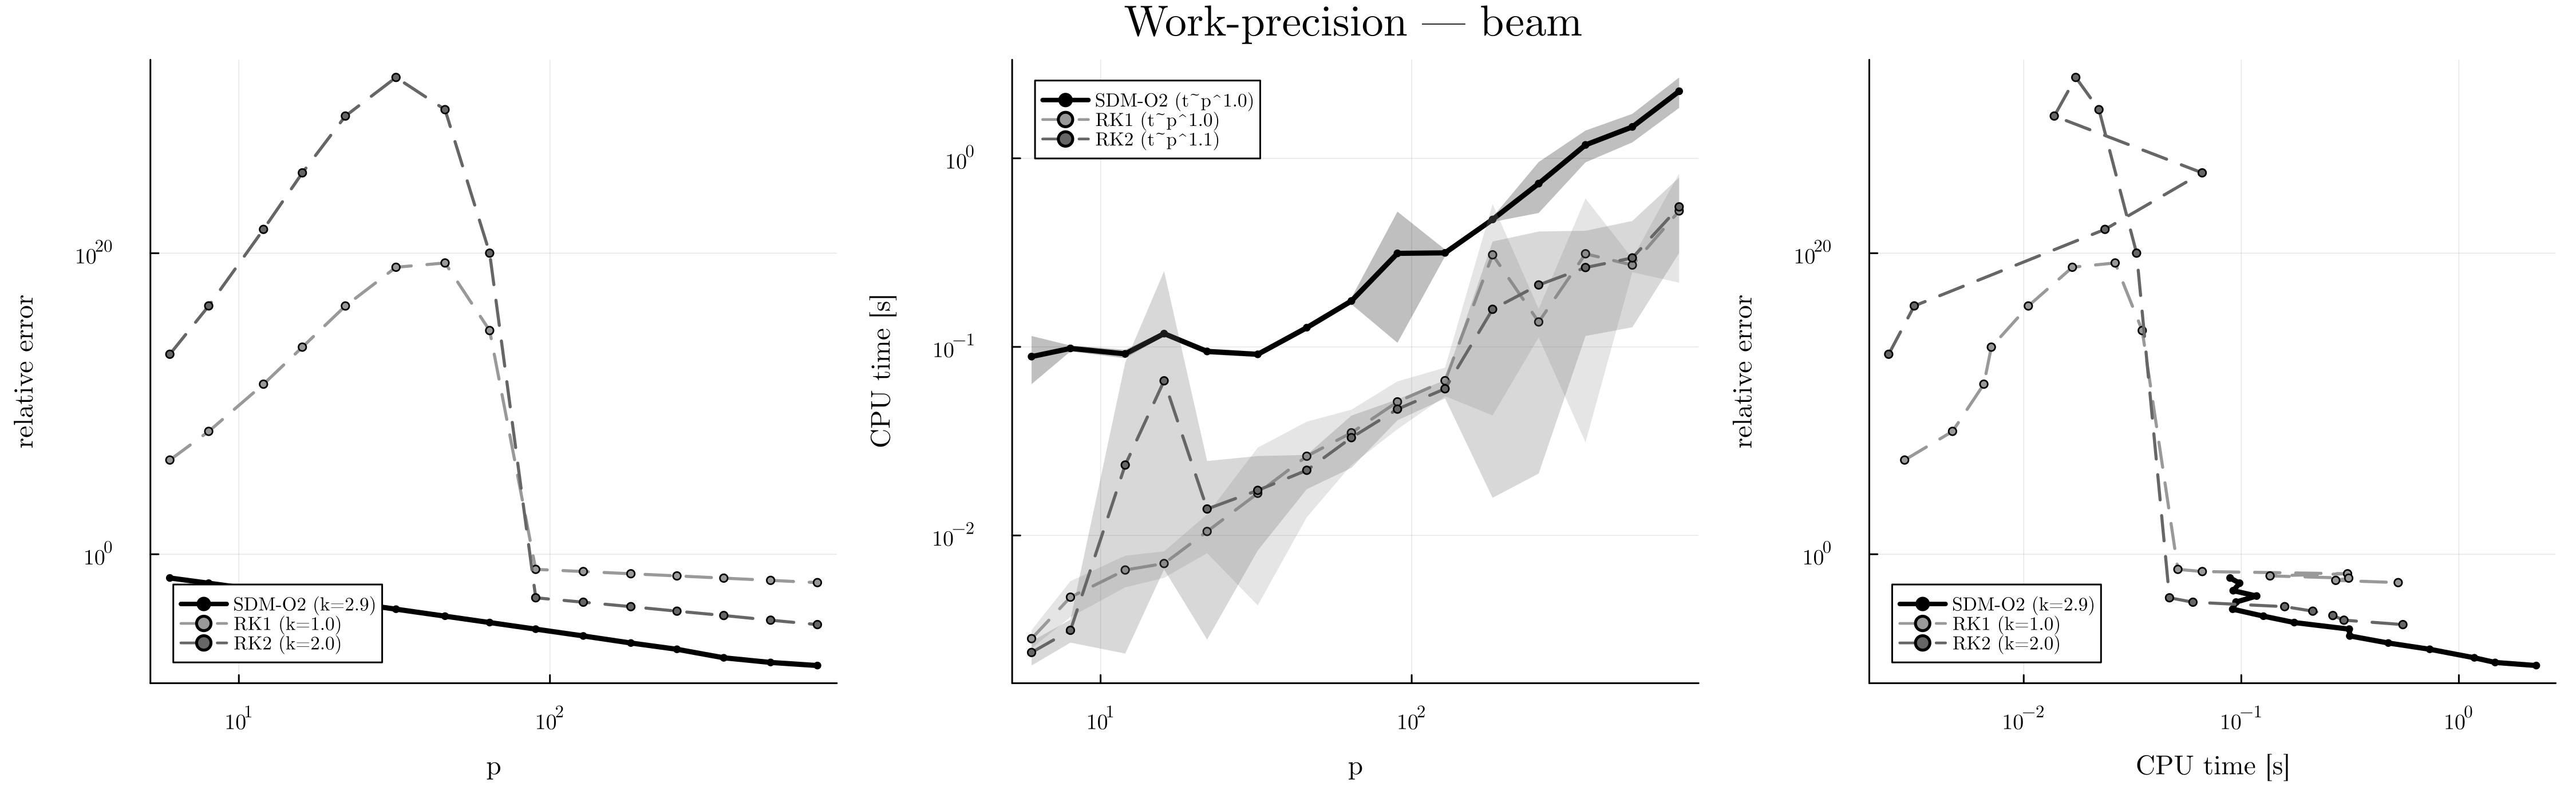
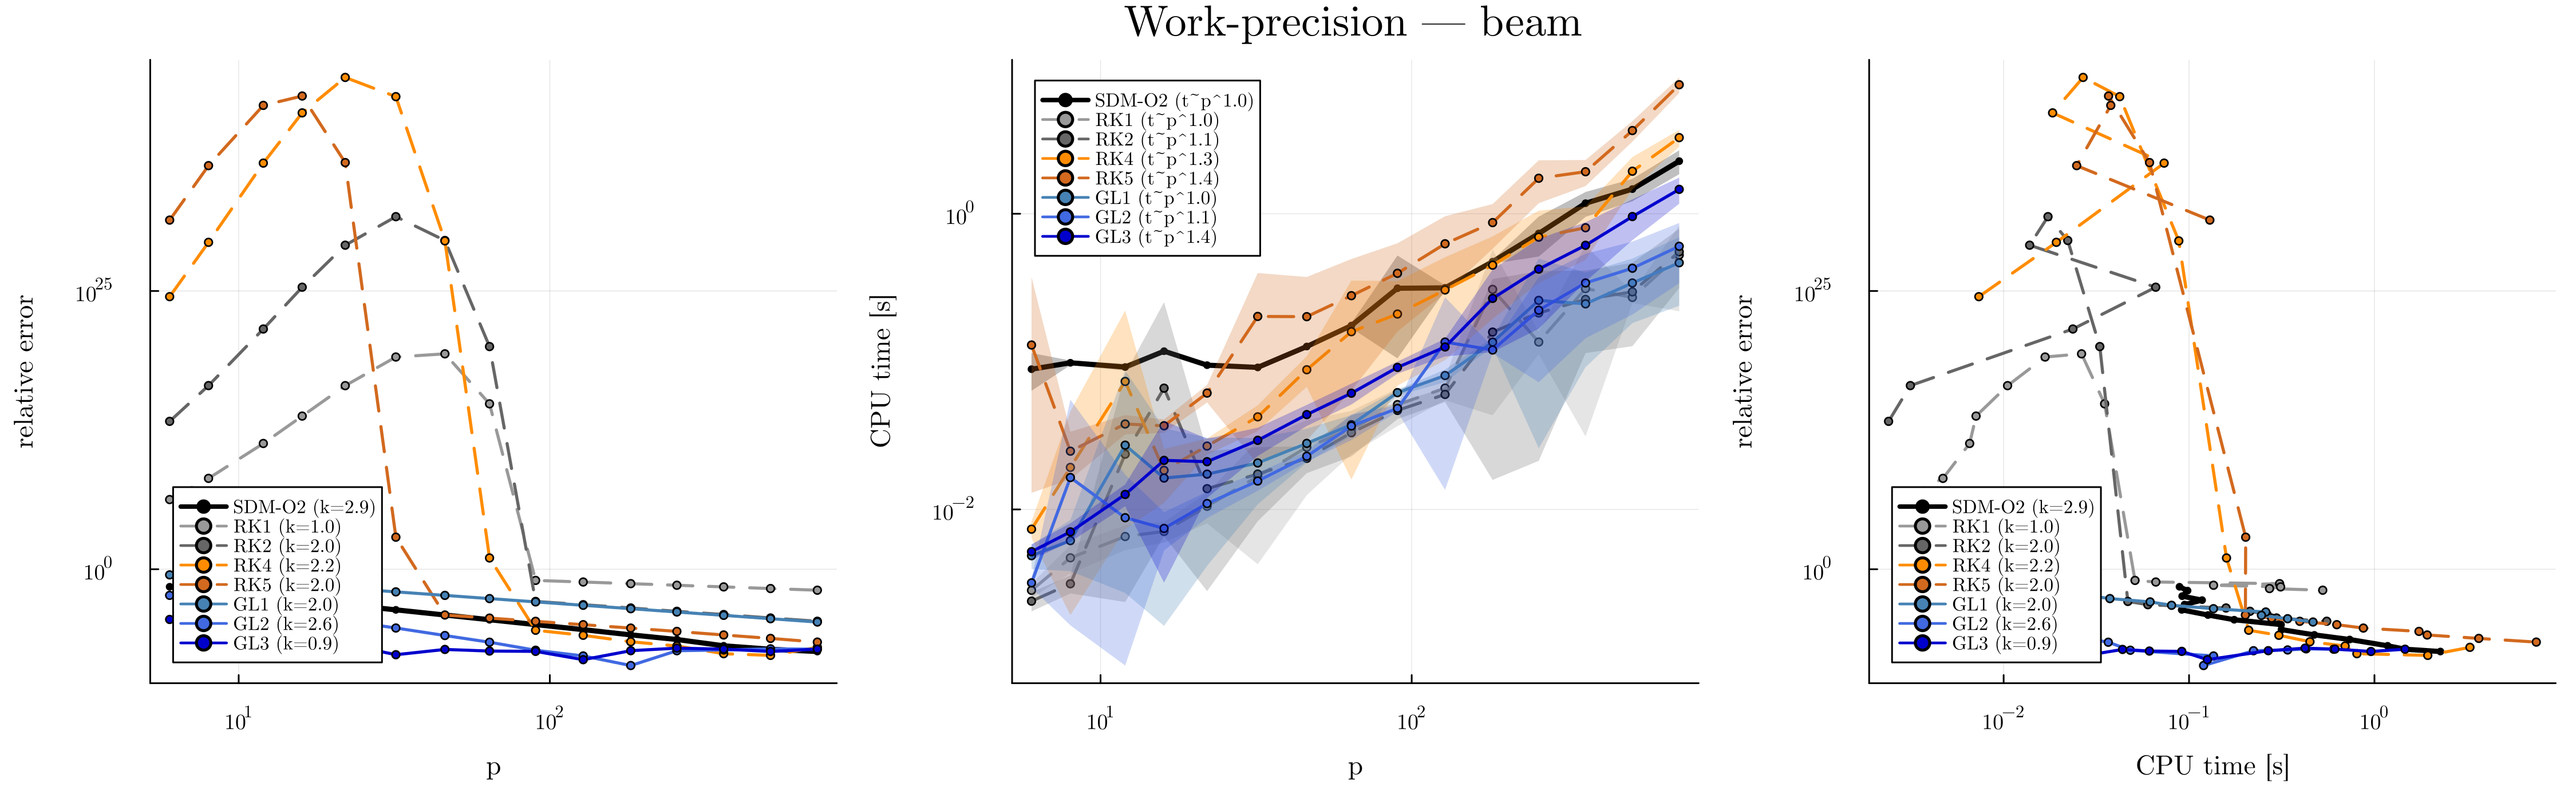
Paper: p-h map figure + both complexity laws + Nyquist resolution bound
Measured p-refinement exponents (s^1.3 Mathieu, s^1.6 beam for rank-one
delay coupling; cubic = dense limit) replace the a-priori cubic claim.
Sweet-spot optimum s* = ln(1/eps)/(2k). Shannon-type bound N = p(s+1) >~
c omega_max T/2pi with pinned-N cost N s^(k-1) => smallest viable order
wins for hard systems; ph_map figures render the whole (s,p) surface.

diff --git a/paper/main.tex b/paper/main.tex
@@ -50,9 +50,11 @@ for $s$-stage Gauss quadrature points --- provided the delayed terms are
 interpolated by the continuous extension of the same scheme. In the limit of
 a single ultra-high-order step, the framework degenerates to the known global
 spectral method; between the two extremes lies a continuum in which per-step
-order is traded against matrix sparsity. Because the number of nonzeros grows
-cubically with the stage number while the error decreases only exponentially,
-the CPU-time optimum for a prescribed accuracy is a problem-dependent
+order is traded against matrix sparsity. Because the cost at fixed step count
+grows polynomially with the stage number (measured exponents $1.3$--$1.6$
+for the rank-one delay couplings typical of machining and feedback systems,
+up to cubic for dense coupling) while the $h$-refinement cost is exactly
+linear, the CPU-time optimum for a prescribed accuracy is a problem-dependent
 \emph{sweet spot} at moderate order and many steps: its location is measured
 for systems requiring only tens of points per period and for systems --- high
 natural frequency relative to the period --- requiring many hundreds, where
@@ -372,10 +374,17 @@ positive prescription:
         exponents.
   \item \textbf{Variance-reported timing.} Every timed point is a warm-started
         mean over repeated runs with its standard deviation.
-  \item \textbf{Both refinement families on the same axes.} Every method is
-        shown under $h$-refinement, and the per-step order $s$ is swept
-        separately (Section~\ref{sec:sweetspot}) so the full
-        $(p,s)$-surface is visible, not a single slice.
+  \item \textbf{Both refinement families, both complexity laws.} Every
+        method is shown under $h$-refinement (fixed order, growing $p$),
+        where the cost of the banded assembly is \emph{linear},
+        $t \propto p^{1}$, \emph{and} under $p$-refinement (fixed $p$,
+        growing stage number $s$), where the cost is \emph{polynomial} in
+        the order --- per-step elimination $\mathcal{O}\bigl((sd)^3\bigr)$
+        plus stage-quadratic fill. A comparison that shows only one
+        direction hides one of the two laws. The complete picture is the
+        $(s, p)$-map of Section~\ref{sec:sweetspot}: error and CPU time
+        rendered over the whole plane, with cells beyond a CPU budget left
+        uncomputed (NaN).
   \item \textbf{Fixed environment.} One machine, one BLAS thread
         configuration, pinned package versions, deterministic start vectors;
         all reported alongside the results.
@@ -519,16 +528,19 @@ multiplication-free route is already $2500\times$ faster.
 For a fixed relative accuracy target $\varepsilon$, sweeping the per-step
 order $s$ while choosing the smallest resolution $p$ that reaches
 $\varepsilon$ produces a U-shaped CPU-time curve: low orders need excessive
-$p$, high orders pay cubically growing per-step fill,
-$\mathrm{nnz}(\mathbf{\Phi}_\mathrm{L}) \sim p\,d^2 s^3$. A first-order
-cost model, $\mathrm{cost} \propto p\,s^3$ with
-$\varepsilon \propto (T/p)^{2s}$, predicts the optimum
+$p$, high orders pay polynomially growing per-step cost --- stage
+elimination $\mathcal{O}\bigl((sd)^3\bigr)$ plus fill, with measured
+fixed-$p$ exponents $t \propto s^{k}$, $k = 1.3$ (Mathieu, $d=2$) to $1.6$
+(beam, $d=28$) for rank-one delay coupling, and $k \to 3$ in the
+dense-coupling limit. A first-order cost model,
+$\mathrm{cost} \propto p\,s^{k}$ with $\varepsilon \propto (T/p)^{2s}$,
+predicts the optimum
 \begin{equation}
-  s^\ast \approx \tfrac{1}{6}\ln(1/\varepsilon),
+  s^\ast \approx \tfrac{1}{2k}\ln(1/\varepsilon),
   \label{eq:sweetspot}
 \end{equation}
-i.e.\ even a $10^{-12}$ accuracy target asks for only $s^\ast \approx 5$
-Gauss stages --- moderate order, many steps. This asymptotic model applies
+i.e.\ even a $10^{-12}$ accuracy target asks for only
+$s^\ast \approx 5$--$10$ Gauss stages --- moderate order, many steps. This asymptotic model applies
 when the fill actually binds. For the small, smooth Mathieu system it does
 not: the measured optima sit at $s^\ast = 5$--$8$ with as few as
 $p^\ast = 2$--$6$ steps (e.g.\ $\varepsilon = 10^{-12}$ in $3.8$\,ms with
@@ -540,6 +552,28 @@ $s=20$ already on the Mathieu system, and for the high-demand and
 high-dimensional systems of Section~\ref{sec:contrast} the optimum falls
 back to moderate order.
 \TODOnum{beam + turning optima from final CSVs}
+
+Figure~\ref{fig:phmap} renders the full picture: relative error and CPU time
+as colour maps over the $(s, p)$ plane, with the two complexity laws visible
+as the gradient directions --- along $p$ at fixed $s$ the cost grows
+linearly, along $s$ at fixed $p$ polynomially --- and the per-target optima
+marked. Cells whose cost exceeds the CPU budget are not computed (blank).
+For a given error contour, the cheapest cell is never the
+single-step/ultra-high-order corner once the resolution demand or the system
+dimension is nontrivial: the polynomial $s$-law meets the linear $p$-law at
+moderate order.
+
+\begin{figure}[t]
+  \centering
+  \figok{width=\linewidth}{figures/ph_map_turning_ssv.pdf}
+  \caption{The $(s, p)$-map for the high-resolution-demand turning system:
+  relative error (left, with white CPU-time contours) and CPU time (right,
+  with white error contours and per-target optima). $h$-refinement (vertical)
+  is linear in cost, $p$-refinement (horizontal) polynomial; blank cells
+  exceed the CPU budget. The corresponding maps for the low-demand Mathieu
+  system are in Appendix~\ref{app:morewp}.}
+  \label{fig:phmap}
+\end{figure}
 
 \subsection{Contrasting resolution demands: where the banded route wins}
 \label{sec:contrast}
@@ -564,9 +598,31 @@ range:
         p^\ast)$ and CPU vs high-order alternative, from
         sweet\_spot\_turning\_ssv.csv}
 \end{itemize}
-The same contrast governs high-dimensional systems: for the FEM beam
-($d = 28$), memory --- the $d^2 s^3$ per-step fill --- caps the affordable
-stage number before CPU time does.
+The resolution demand can be estimated a priori by a sampling (Shannon-type)
+argument. The discretization carries $N = p\,(s{+}1)$ solution samples per
+period; resolving the fastest natural oscillation of the system,
+$\omega_{\max}$, requires at least the Nyquist floor of two samples per
+oscillation period and, for engineering accuracy, empirically
+$c \approx 5$--$10$:
+\begin{equation}
+  N \;=\; p\,(s{+}1) \;\gtrsim\; c\,\frac{\omega_{\max} T}{2\pi}.
+  \label{eq:nyquist}
+\end{equation}
+For the turning system ($\omega_{\max}T/2\pi \approx 36$) this predicts
+$N \gtrsim 200$--$400$, matching the observed onset of convergence, and the
+measured garbage below it (both methods at $p = 50$, $s = 2$, i.e.\
+$N = 150$, return multipliers off by orders of magnitude). The bound
+\eqref{eq:nyquist} sharpens the sweet-spot analysis: when $N$ is pinned by
+the oscillation content rather than by the accuracy target, the cost of the
+banded route scales as $p\,s^{k} \approx N\,s^{k-1}$ --- \emph{still
+increasing in the order at fixed sample count} for every measured exponent
+$k$ --- so the smallest stage number that meets the accuracy target is
+CPU-optimal, and the single-step spectral corner (all $N$ samples in one
+dense block) is maximally penalized. Conversely, when the problem is
+easy ($N$ shrinks exponentially with growing $s$), higher order pays until
+the fill takes over. The same contrast governs high-dimensional systems: for
+the FEM beam ($d = 28$), memory --- the $d^2 s^3$ per-step fill --- caps the
+affordable stage number before CPU time does.
 
 \subsection{Explicit versus implicit steps}
 \label{sec:expl-impl}
@@ -621,7 +677,7 @@ The measurements condense into a short decision rule for practitioners.
         even $\varepsilon = 10^{-12}$ asks only for $s \approx 5$. Then pick
         $p$ by one or two refinement steps until the target is met --- the
         cost is linear in $p$, so overshooting $p$ is cheap, whereas
-        overshooting $s$ inflates the fill cubically.
+        overshooting $s$ inflates the per-step cost polynomially.
   \item \textbf{Large systems: cap the order earlier.} The per-step fill
         scales with $d^2 s^3$; for FEM-scale models ($d \gtrsim 20$) the
         measured optima sit at $s = 2$--$3$ \TODOnum{confirm exact beam
@@ -721,6 +777,16 @@ every embedded integrator, Gauss stages dominating beyond
 $\varepsilon \approx 10^{-4}$. On the stiff beam the explicit methods are
 unstable below a CFL-like resolution bound (errors up to $10^{43}$),
 while the A-stable Gauss stages converge from the coarsest grids.
+
+\begin{figure}[t]
+  \centering
+  \figok{width=\linewidth}{figures/ph_map_mathieu.pdf}
+  \caption{The $(s, p)$-map for the low-demand delayed Mathieu equation
+  (compare Figure~\ref{fig:phmap}): here deep accuracy is reached in the
+  high-order/low-$p$ region as well, and the optima sit near the spectral
+  corner because the matrices stay tiny.}
+  \label{fig:phmap-mathieu}
+\end{figure}
 
 \begin{figure}[t]
   \centering